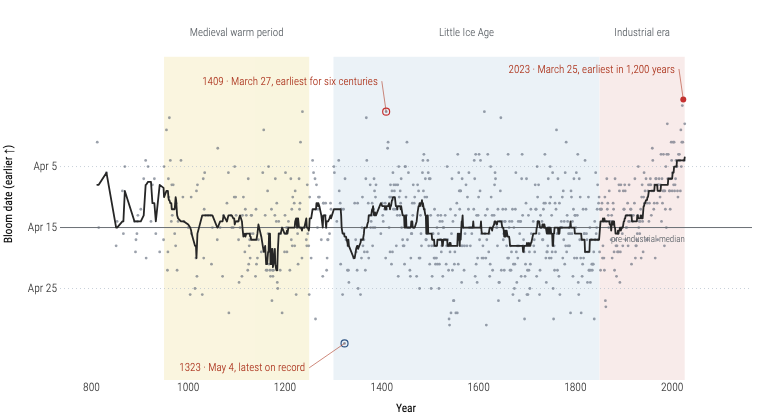
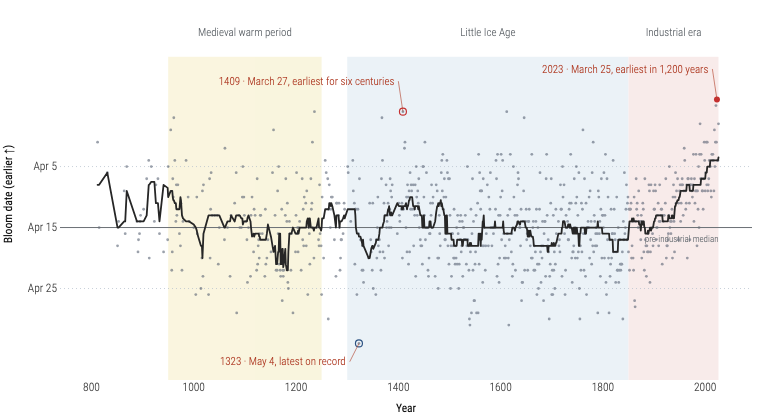
docs(examples): carry the lesson's x scale and revised 1323 anchor into the showcase
Two valid Devin findings on this PR, both instance-of-class misses when
the example was extracted from the lesson:

- The example omitted the lesson's base x scale (fold.ts BASE_SCALES), so
  years rendered with grouped formatting ("1,200") and a data-derived
  range. spec.ts gains scaleXContinuous({ labels: "d", domain:
  [800, 2030] }); the component mirror gains the matching
  <ScaleXContinuous> — so 1000 CE is "1000", and the axis is the fixed
  800–2030 of the chart it reproduces.
- The 1323 record kept its pre-revision callout anchor (1250/05-08) while
  the other two used the revised beside-the-point positions, so one leader
  ran across the data. Now 1305/05-07, matching SAKURA_RECORDS.

Preview recaptured from the ?vr frame; provenance updated. (The third
finding — finished-file chartline width — was fixed on the Phase 1 branch
and arrived here by merge.)

diff --git a/examples/showcase/kyoto-sakura/Example.svelte b/examples/showcase/kyoto-sakura/Example.svelte
@@ -11,6 +11,7 @@
     Labs,
     registerSummaryRolling,
     ScaleFillManual,
+    ScaleXContinuous,
     ScaleYMonthDay,
     ThemeTufte,
   } from "@ggsvelte/svelte";
@@ -38,8 +39,8 @@
       year: 1323,
       bloomDate: "05-04",
       label: "1323 · May 4, latest on record",
-      labelYear: 1250,
-      labelDate: "05-08",
+      labelYear: 1305,
+      labelDate: "05-07",
     },
     {
       year: 1409,
@@ -74,6 +75,7 @@
   height={420}
 >
   <ThemeTufte />
+  <ScaleXContinuous labels="d" domain={[800, 2030]} />
   <ScaleYMonthDay
     reverse
     breaks={["04-05", "04-15", "04-25"]}

diff --git a/examples/showcase/kyoto-sakura/spec.ts b/examples/showcase/kyoto-sakura/spec.ts
@@ -34,8 +34,8 @@ const records = [
     year: 1323,
     bloomDate: "05-04",
     label: "1323 · May 4, latest on record",
-    labelYear: 1250,
-    labelDate: "05-08",
+    labelYear: 1305,
+    labelDate: "05-07",
   },
   {
     year: 1409,
@@ -139,6 +139,7 @@ export default defineExample(
       anchor: "end",
       dx: -4,
     })
+    .scaleXContinuous({ labels: "d", domain: [800, 2030] })
     .scaleYMonthDay({
       reverse: true,
       breaks: ["04-05", "04-15", "04-25"],
